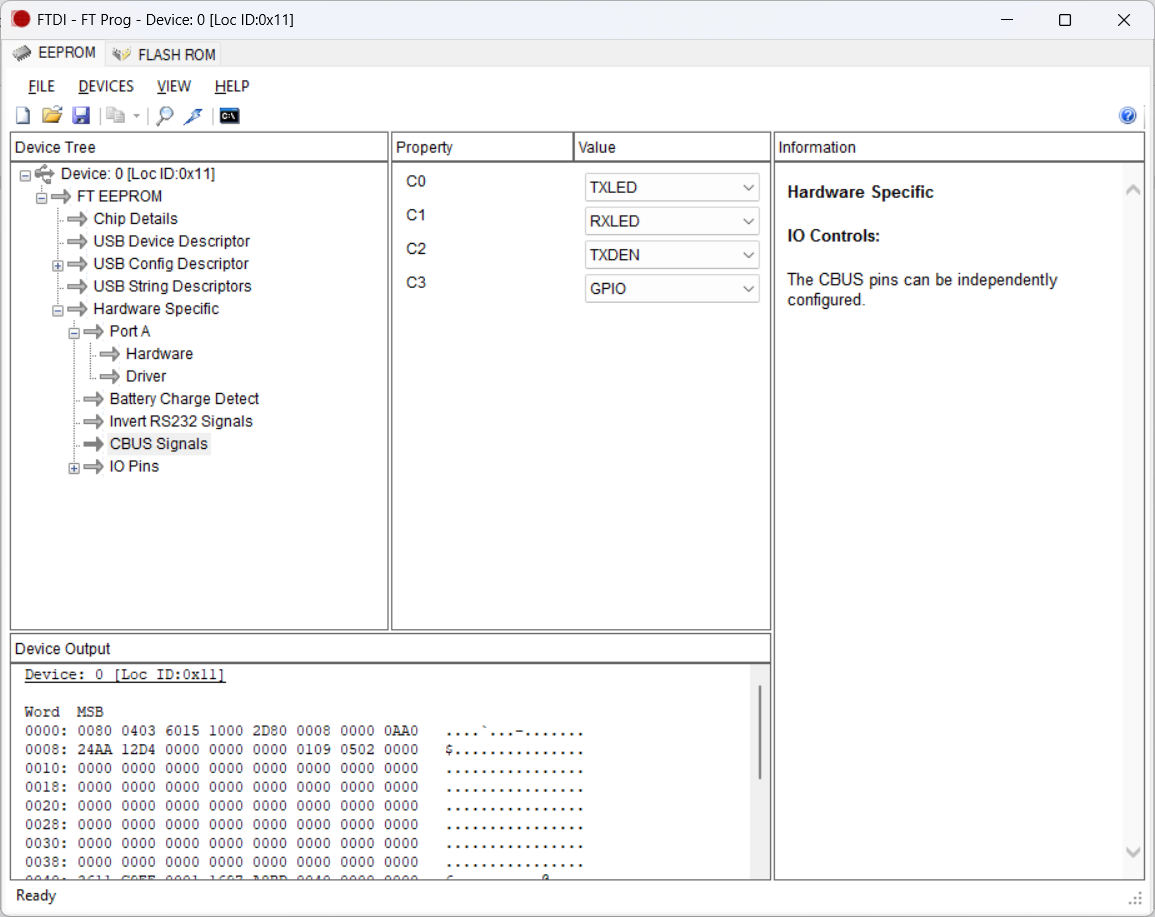
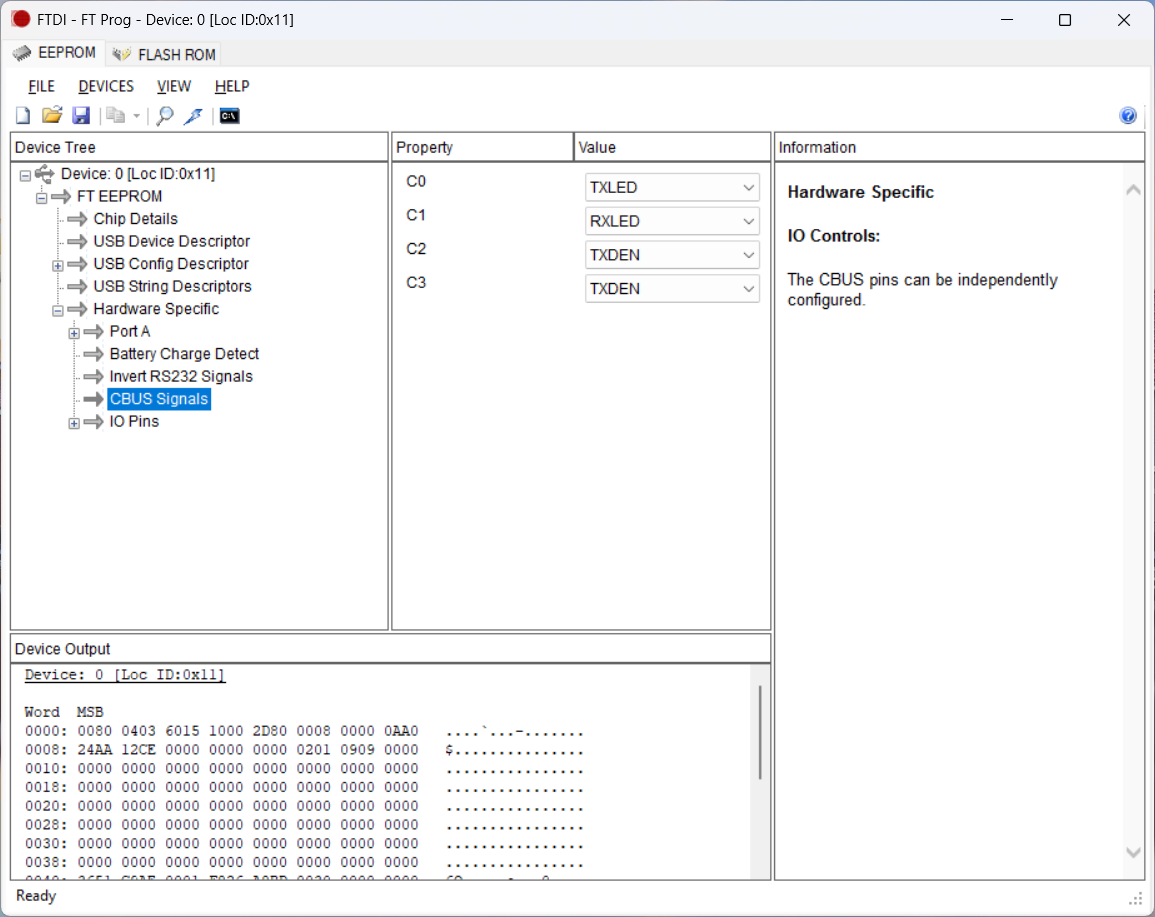
Readme & testing

diff --git a/README.md b/README.md
@@ -1,5 +1,6 @@
 # ISO-RS485
-## This is work in progress, not finished project (!)
+## This version is tested and works ok.
+![image](IMG/photo.png)
 USB to RS485 and UART converter with isolation.
 This is one of tools for "everyday use" once you are in embedded.
 Regardless variety of cheap USB-RS485 and USB-UART "whistles" on the market and on the web, they rarely meet our expectations. There are very cheap and quite limited converters and on the other side of spectrum there are good converters usually not affordable for individuals.
@@ -10,9 +11,10 @@ So this repo contains an iterative attempt to design a tool for my own use basin
 
 ## The main features:
 - **USB-C connector.** Yes, whistles don't need USB cables but they are always near your USB port instead of being near your target hardware. So you always need long Rx/Tx/Gnd or A/B wires or some USB HUB on the desk. While it seems more natural to use generic USB-C cable which you can find everywhere currently (e.g. phone charger) and use some jumper cables etc. on serial side.
+- **3 Mbaud UART** Stable UART communication on up to 3 Megabit per second with selectable voltage levels.
 - **UART & RS485: both in one.** Yes, there are separate converters but I use both UART and RS485 quite frequently - so why not have them together in one device?
 - **Isolation** "Safety first". Nobody likes burned hardware. UART lines are isolated with ADuM "digital isolator". Power lines are isolated with Traco isolated DC/DC. RS485 is connected via isolated transceiver So the USB side and serial side are fully isolated.
-- **Switchable levels.** 3.3/5V is typical levels choice for USB-UART converters. Nevertheless, sometimes we work with projects where 1.8V UART levels are nevessery and I faced lack of that feature. Thus the levels here can be choosen among 1.8, 3.3 and 5V (with a jumper).
+- **Switchable levels.** 3.3/5V is typical levels choice for USB-UART converters. Nevertheless, sometimes we work with projects where 1.8V UART levels are necessary and I faced lack of that feature. Thus the levels here can be chosen among 1.8, 3.3 and 5V (with a jumper).
 - **RS485 autodirection.** In current version is handled by FT230.
 - **Indication:** 3 LEDs for Rx Tx and isolated power
 
@@ -20,8 +22,8 @@ So this repo contains an iterative attempt to design a tool for my own use basin
 ![image](IMG/FT230-Bottom.jpg)
 
 ## Versions history
-** Initially ** there were 2 similar designs in parallel: based on FT230 and CH340G.I used CH340 in several devices before and didn't face any issues with them (at least on low baud rates). Nevertheless, its availability is questionable and receiving parts from LCSC is often problematic, while I wanted the device to be reproducable with one-stop order from big suppliers like Mouser or Digikey. Also I don't like CH340 drivers distribution as well as documentation. Its price makes it really attractive for DIY or projects where cost optimization is important but my personal feeling is the chip is immature for commercial projects or open source.So CH340 version was excluded from further development and is extinct by now.
-Optical isolation was applied for data lines in that first version. And it was a wrong decision. I assembled one piece to have a look, the optocouplers expectedly limited the speed and I found the shape of signal completely dissutisfying. There was an option to use better optocouplers and correct the circuit but by that time I wanted to add 1.8V levels and to make signal looking better. So I decided to get rid of optical isolation shifting to isolated level shifter for UART.
+** Initially ** there were 2 similar designs in parallel: based on FT230 and CH340G.I used CH340 in several devices before and didn't face any issues with them (at least on low baud rates). Nevertheless, its availability is questionable and receiving parts from LCSC is often problematic, while I wanted the device to be reproduceable with one-stop order from big suppliers like Mouser or Digikey. Also I don't like CH340 drivers distribution as well as documentation. Its price makes it really attractive for DIY or projects where cost optimization is important but my personal feeling is the chip is immature for commercial projects or open source. So CH340 version was excluded from further development and is extinct by now.
+Optical isolation was applied for data lines in that first version. And it was a wrong decision. I assembled one piece to have a look, the optocouplers expectedly limited the speed and I found the shape of signal completely dissatisfying. There was an option to use better optocouplers and correct the circuit but by that time I wanted to add 1.8V levels and to make signal looking better. So I decided to get rid of optical isolation shifting to isolated level shifter for UART.
 ** Current version** is being built around FT230, isolated RS485 transceiver, ADuM121 digital isolator for UART and multi-voltage isolated power supply for level shifting.
 
 ## Driver
@@ -29,9 +31,19 @@ FTDI FT230 driver is available on [manufacturer's website](https://ftdichip.com/
 
 ## Assembly & Configuration
 When using a new FT230 chip, default assignment of CBUS0...CBUS must be reconfigured first in MTP memory (as there is some mismatch between datasheet and actual values). For that purpose use [FT_PROG software from FTDI](https://ftdichip.com/utilities/): 
-Devices -> Scan and Parse -> CBUS signals. Then assign CBUS according to schematics.
+Devices -> Scan and Parse -> CBUS signals. Then assign CBUS according to schematics and program.
 
 ![image](IMG/FT_PROG.png)
+
+LDO is a bit hard to assembly without stencil, (any extra solder paste on EP pulls IC up breaking other connections), be attentive!
+
+## Testing and Limitations
+The device in the latest version was tested in UART mode (serial communication between 2 pieces) on all designed voltage levels (5V, 3.3V and 1.8V) with signals shape observation on baud rates up to 3 Mbps and results looked appropriate. 3 Mbps speed corresponds to limit declared by FTDI datasheet. 
+In RS485 mode, the stability of transmission and signal "health" in our observation stayed appropriate up to 500 kbps, so there is some room for further improvement.
+
+## ToDo
+- replace AP7345D or modify footprint to prevent assembly issues;
+- improve RS485 signal to increase its speed up to FT230 limit.
 
 ## License
 This project is licensed under:
